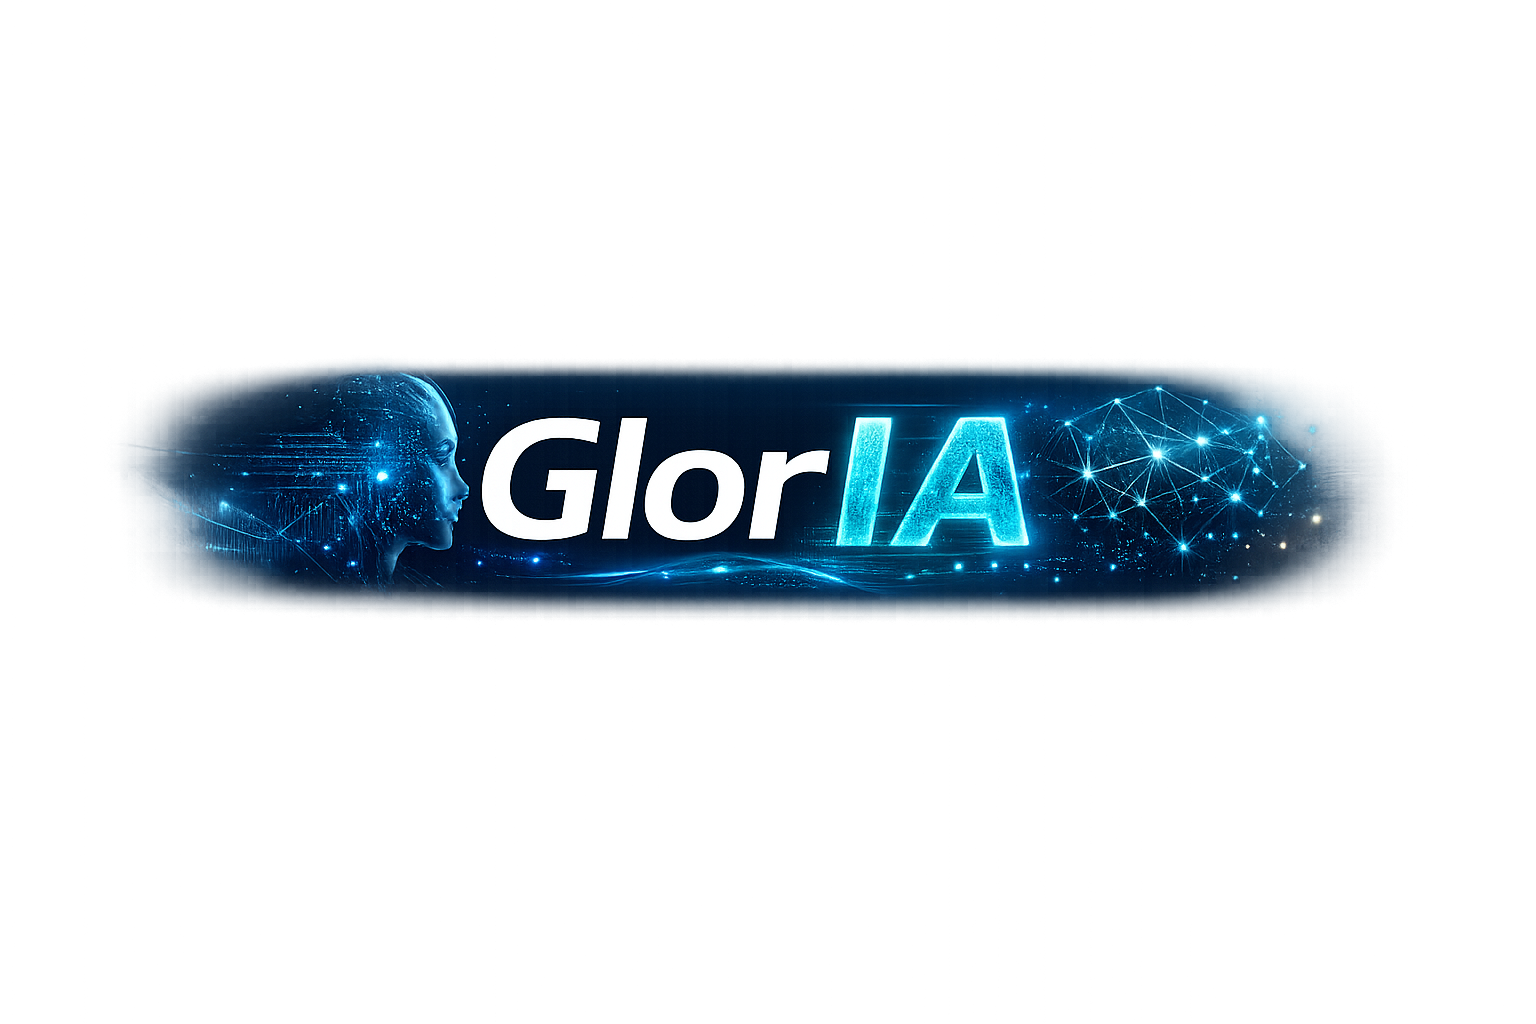
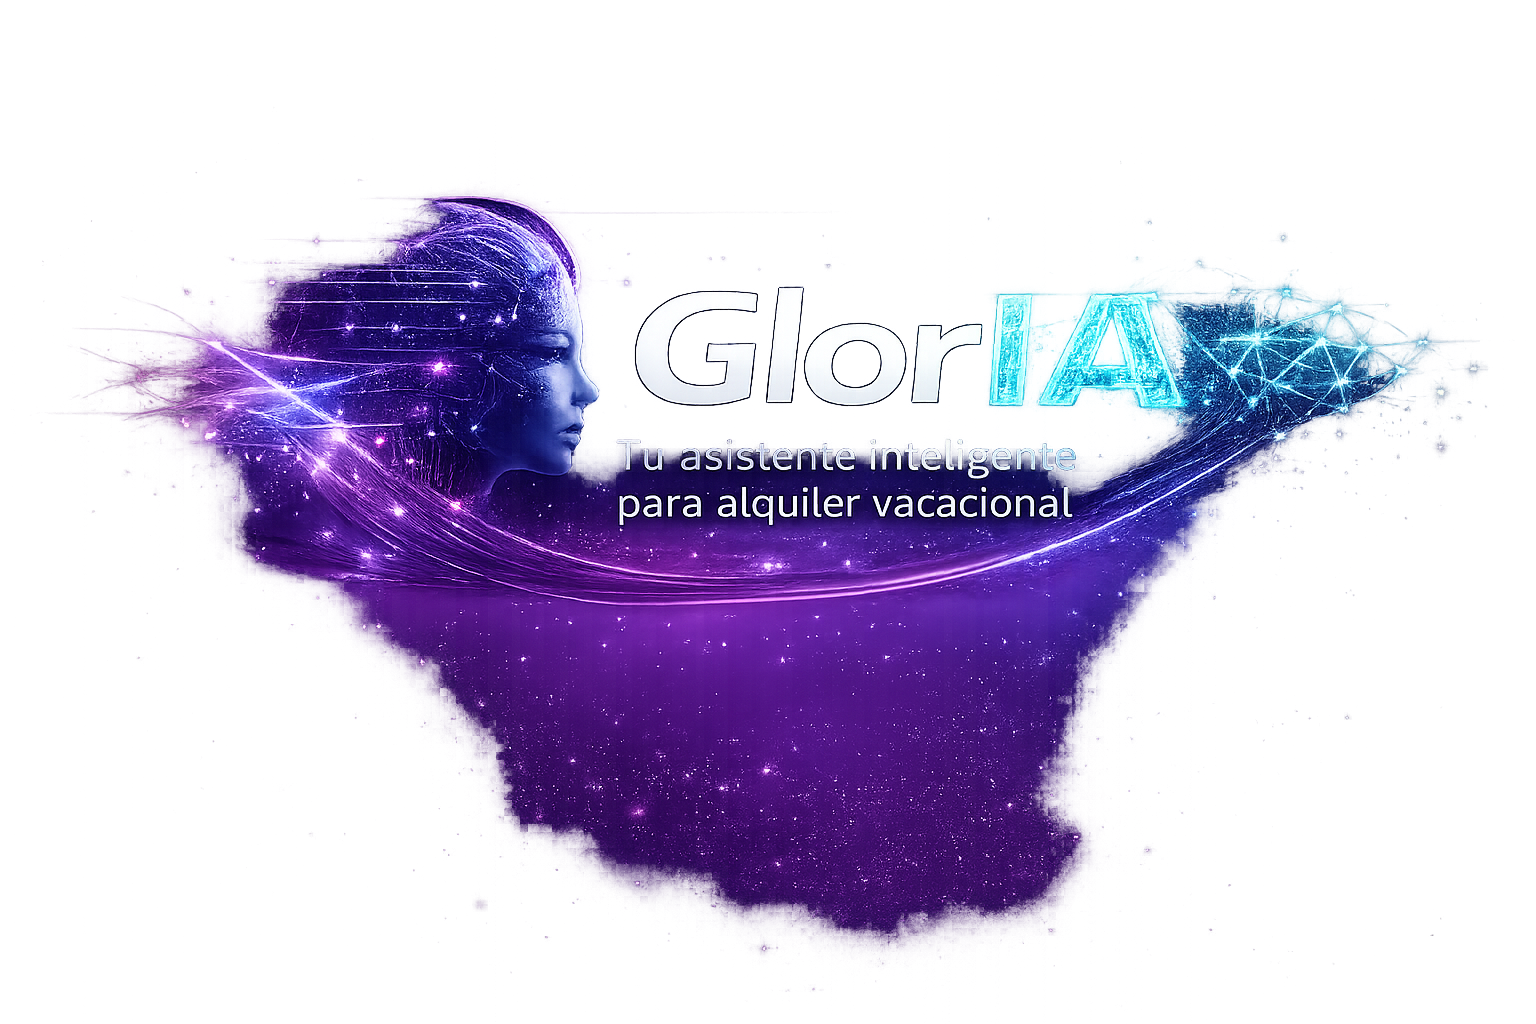
style(ui): import new Gloria header asset and apply subtle left-offset translation

diff --git a/premium_v14.js b/premium_v14.js
@@ -1,0 +1,21 @@
+const fs = require('fs');
+
+function offsetHeader(filepath) {
+    if (!fs.existsSync(filepath)) return;
+    let html = fs.readFileSync(filepath, 'utf8');
+
+    // Desplazar un poco la cabecera a la izquierda (inyectando translateX)
+    // El dom original inyectado era text-align: center y transform: translateZ(0);
+    // Si ya le puse translateX en alguna iteración, no lo repito o lo actualizo, sino lo pongo:
+    if(html.includes('transform: translateZ(0);')) {
+        html = html.replace(/transform: translateZ\(0\);/g, 'transform: translateZ(0) translateX(-4.5rem);');
+    } else if (html.includes('translateX(-4.5rem)')) {
+        // Nada, ya esta
+    }
+
+    fs.writeFileSync(filepath, html);
+    console.log("Nueva cabecera con offset X aplicado en " + filepath);
+}
+
+offsetHeader('../frontend/index.html');
+offsetHeader('./03_landing/index.html');

diff --git a/03_landing/index.html b/03_landing/index.html
@@ -980,7 +980,7 @@
             
             
             <div style="width: 100%; text-align: center; margin-bottom: -4rem; position: relative; z-index: 10;">
-                <img src="img/cabecera-gloria.png" alt="GlorIA" style="max-width: 100%; width: 750px; height: auto; object-fit: contain; filter: drop-shadow(0 10px 40px rgba(138, 75, 222, 0.25)); transform: translateZ(0);">
+                <img src="img/cabecera-gloria.png" alt="GlorIA" style="max-width: 100%; width: 750px; height: auto; object-fit: contain; filter: drop-shadow(0 10px 40px rgba(138, 75, 222, 0.25)); transform: translateZ(0) translateX(-4.5rem);">
             </div>
             <div class="gloria-layout">
                 <!-- Columna Texto y Cerebro -->
